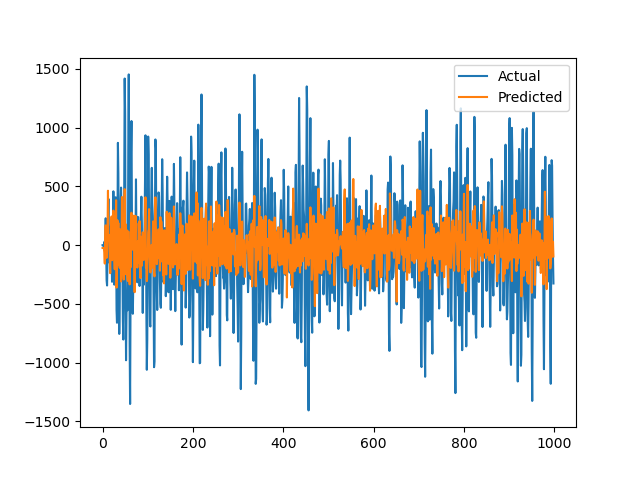
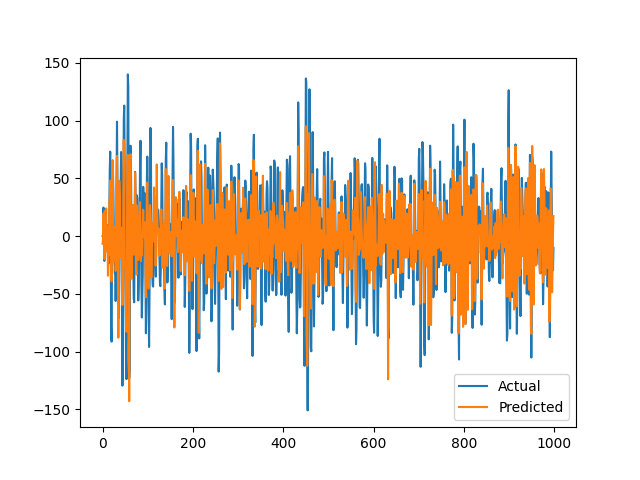
pra

diff --git a/PRA.py b/PRA.py
@@ -11,7 +11,7 @@ from tqdm.auto import tqdm
 
 # Manual ESN Implementation
 class SimpleESN:
-    def __init__(self, n_reservoir, spectral_radius, sparsity,rho=0.9, noise=0.1,alpha=1.0,leaky_rate=0.1,lag = -2):
+    def __init__(self, n_reservoir, spectral_radius, sparsity,rho=0.9, noise=0.1,alpha=1.0,leaky_rate=0.5,lag = -2):
         self.n_reservoir = n_reservoir
         self.spectral_radius = spectral_radius
         self.sparsity = sparsity
@@ -82,7 +82,7 @@ def compute_adjacency_matrix_for_epoch(epoch_data, lag=0):
     mse_results = np.zeros((n_series, n_series))
 
     # Initialize the ESN instance
-    esn = SimpleESN(n_reservoir=100, spectral_radius=1.2, sparsity=0.3)
+    esn = SimpleESN(n_reservoir=100, spectral_radius=1.0, sparsity=0.3)
     esn.initialize_weights()  # Initialize weights once at the start
 
     for i in range(n_series):
@@ -101,7 +101,7 @@ def compute_adjacency_matrix_for_epoch(epoch_data, lag=0):
             mse_results[i, j] = train_and_evaluate_with_states(esn, input_states_i, target_series)
 
     # Invert MSE for adjacency matrix (higher value means stronger predictive power)
-    mse_results = np.where(mse_results == 0, 0.1, mse_results)
+    mse_results = np.where(mse_results == 0, 1.0, mse_results)
     adjacency_matrix = np.where(mse_results != 0, 1 / mse_results, 0)
     return adjacency_matrix
 
@@ -128,7 +128,7 @@ def PRA(var_dat=None):
     avg_adjacency_matrix = (avg_adjacency_matrix - np.min(avg_adjacency_matrix)) / (np.max(avg_adjacency_matrix) - np.min(avg_adjacency_matrix))
 
     #Zeros out the diagonal
-    np.fill_diagonal(avg_adjacency_matrix, 0)
+    #np.fill_diagonal(avg_adjacency_matrix, 0)
     return avg_adjacency_matrix
     #output = sns.heatmap(avg_adjacency_matrix, xticklabels=region_dat, yticklabels=region_dat)
     #output.get_figure().savefig(f'./dynsys/reservoir.png')
